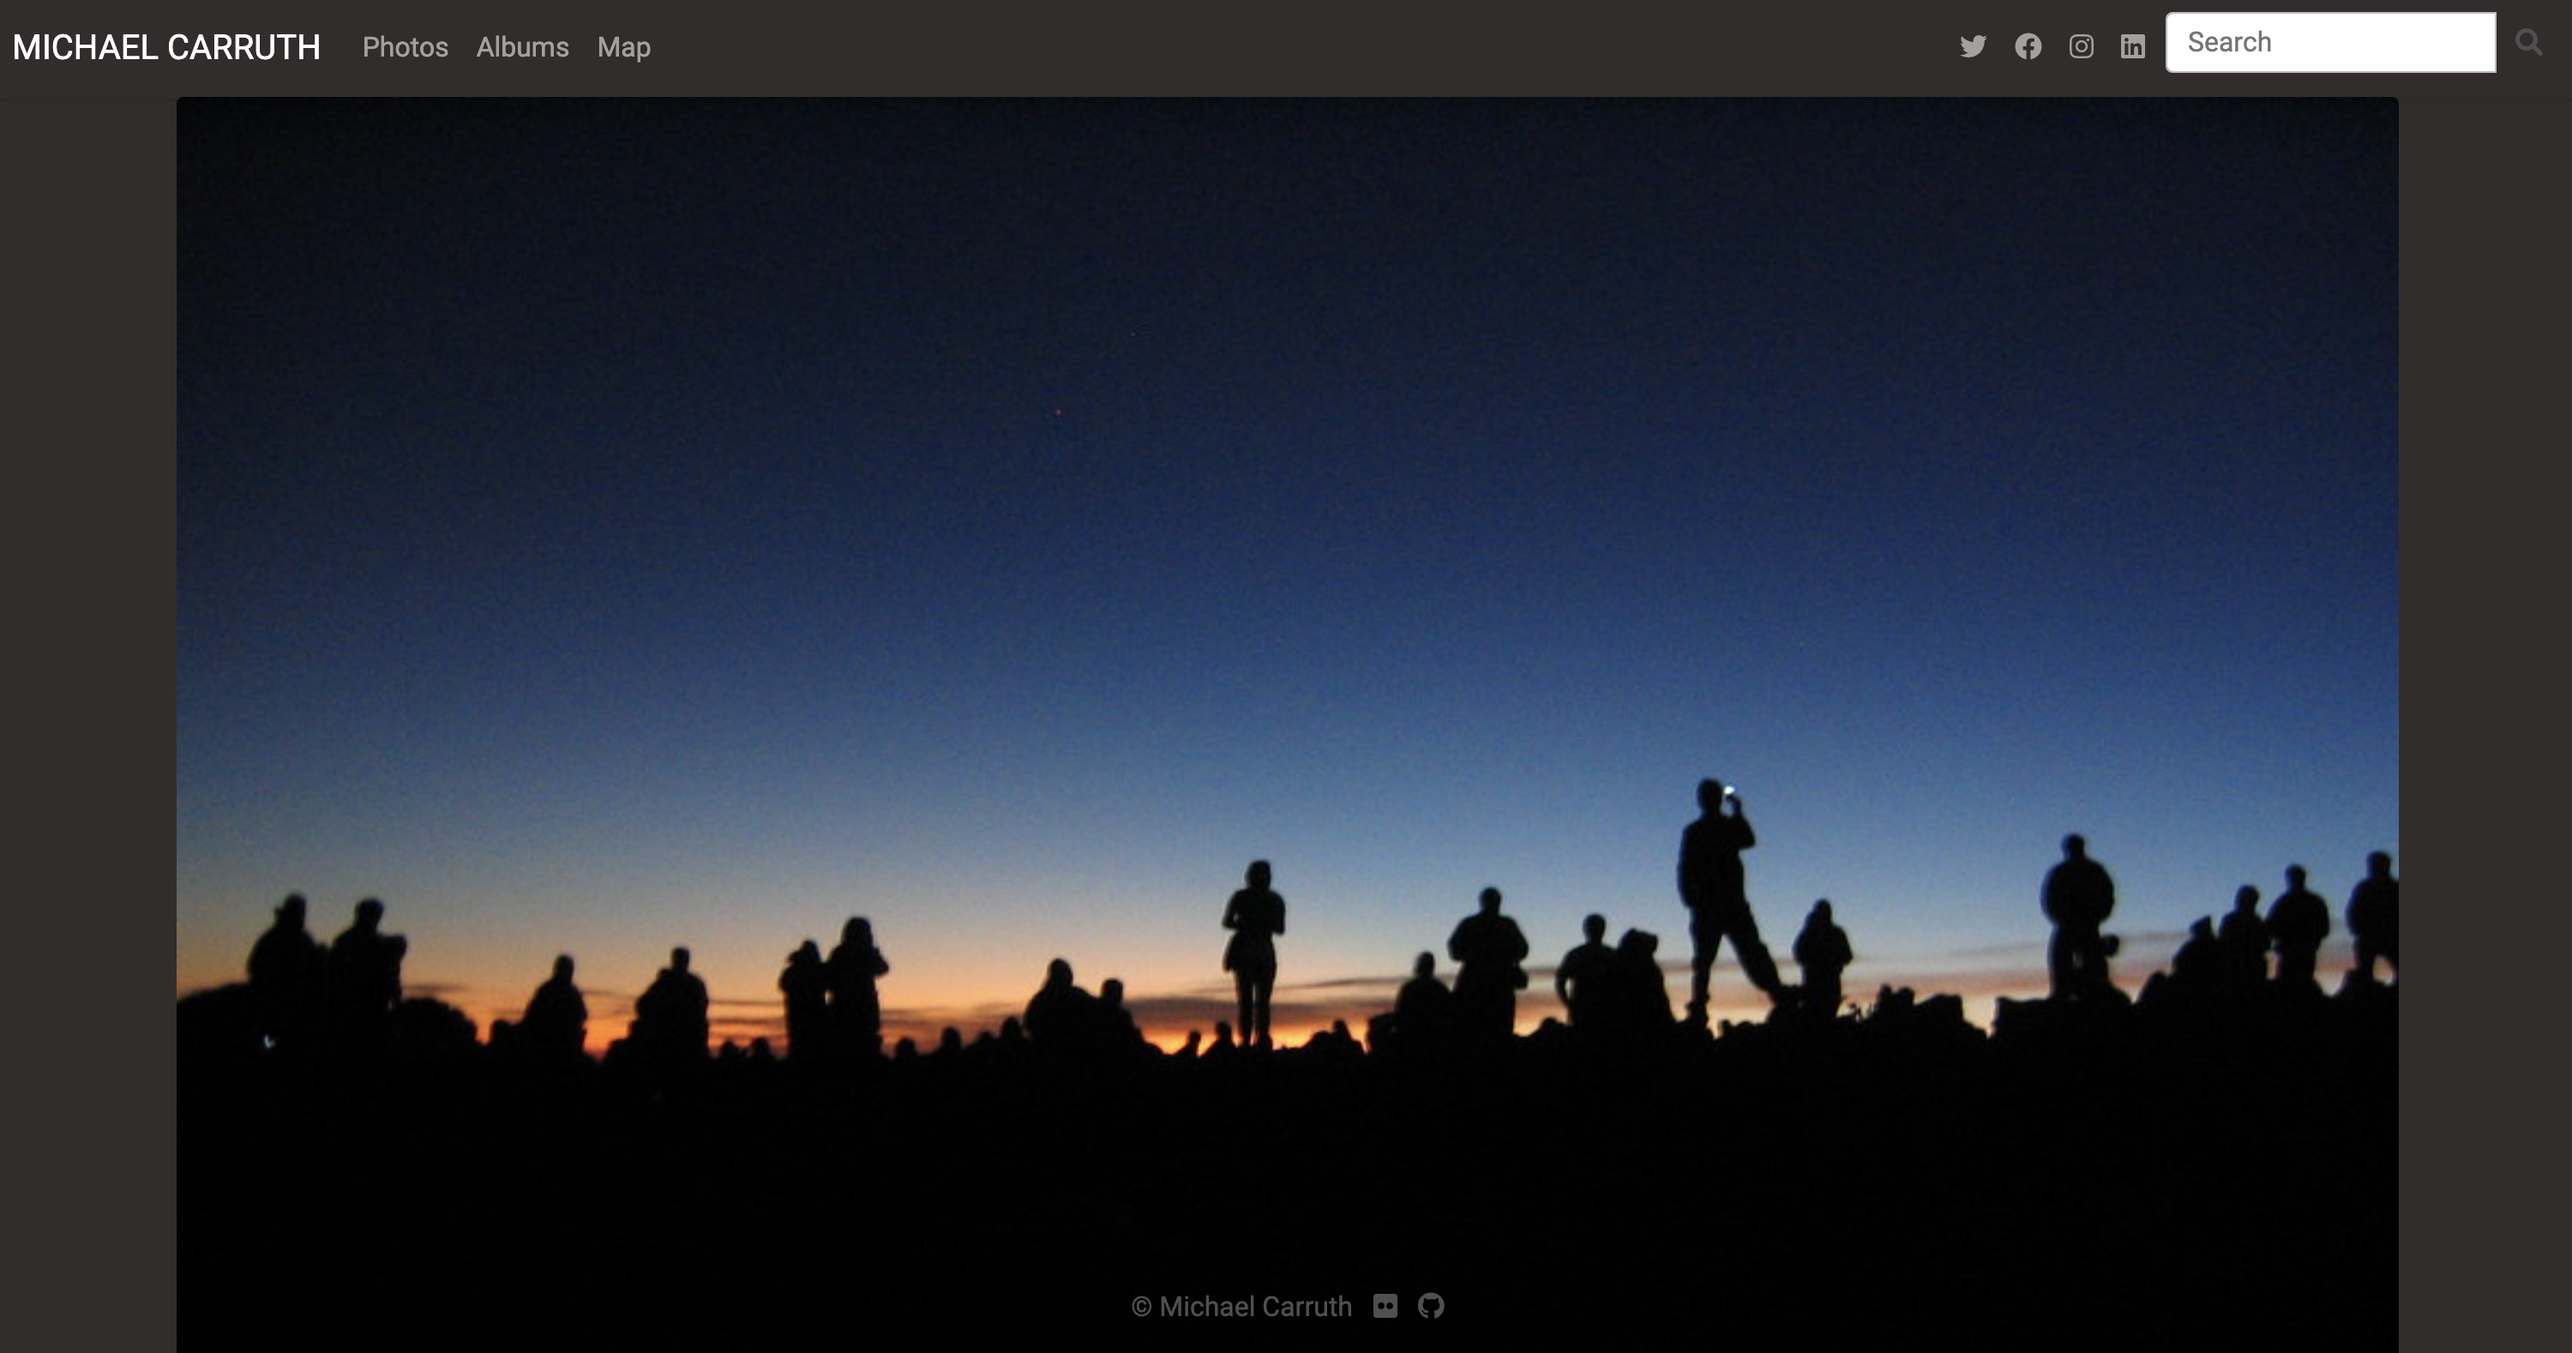
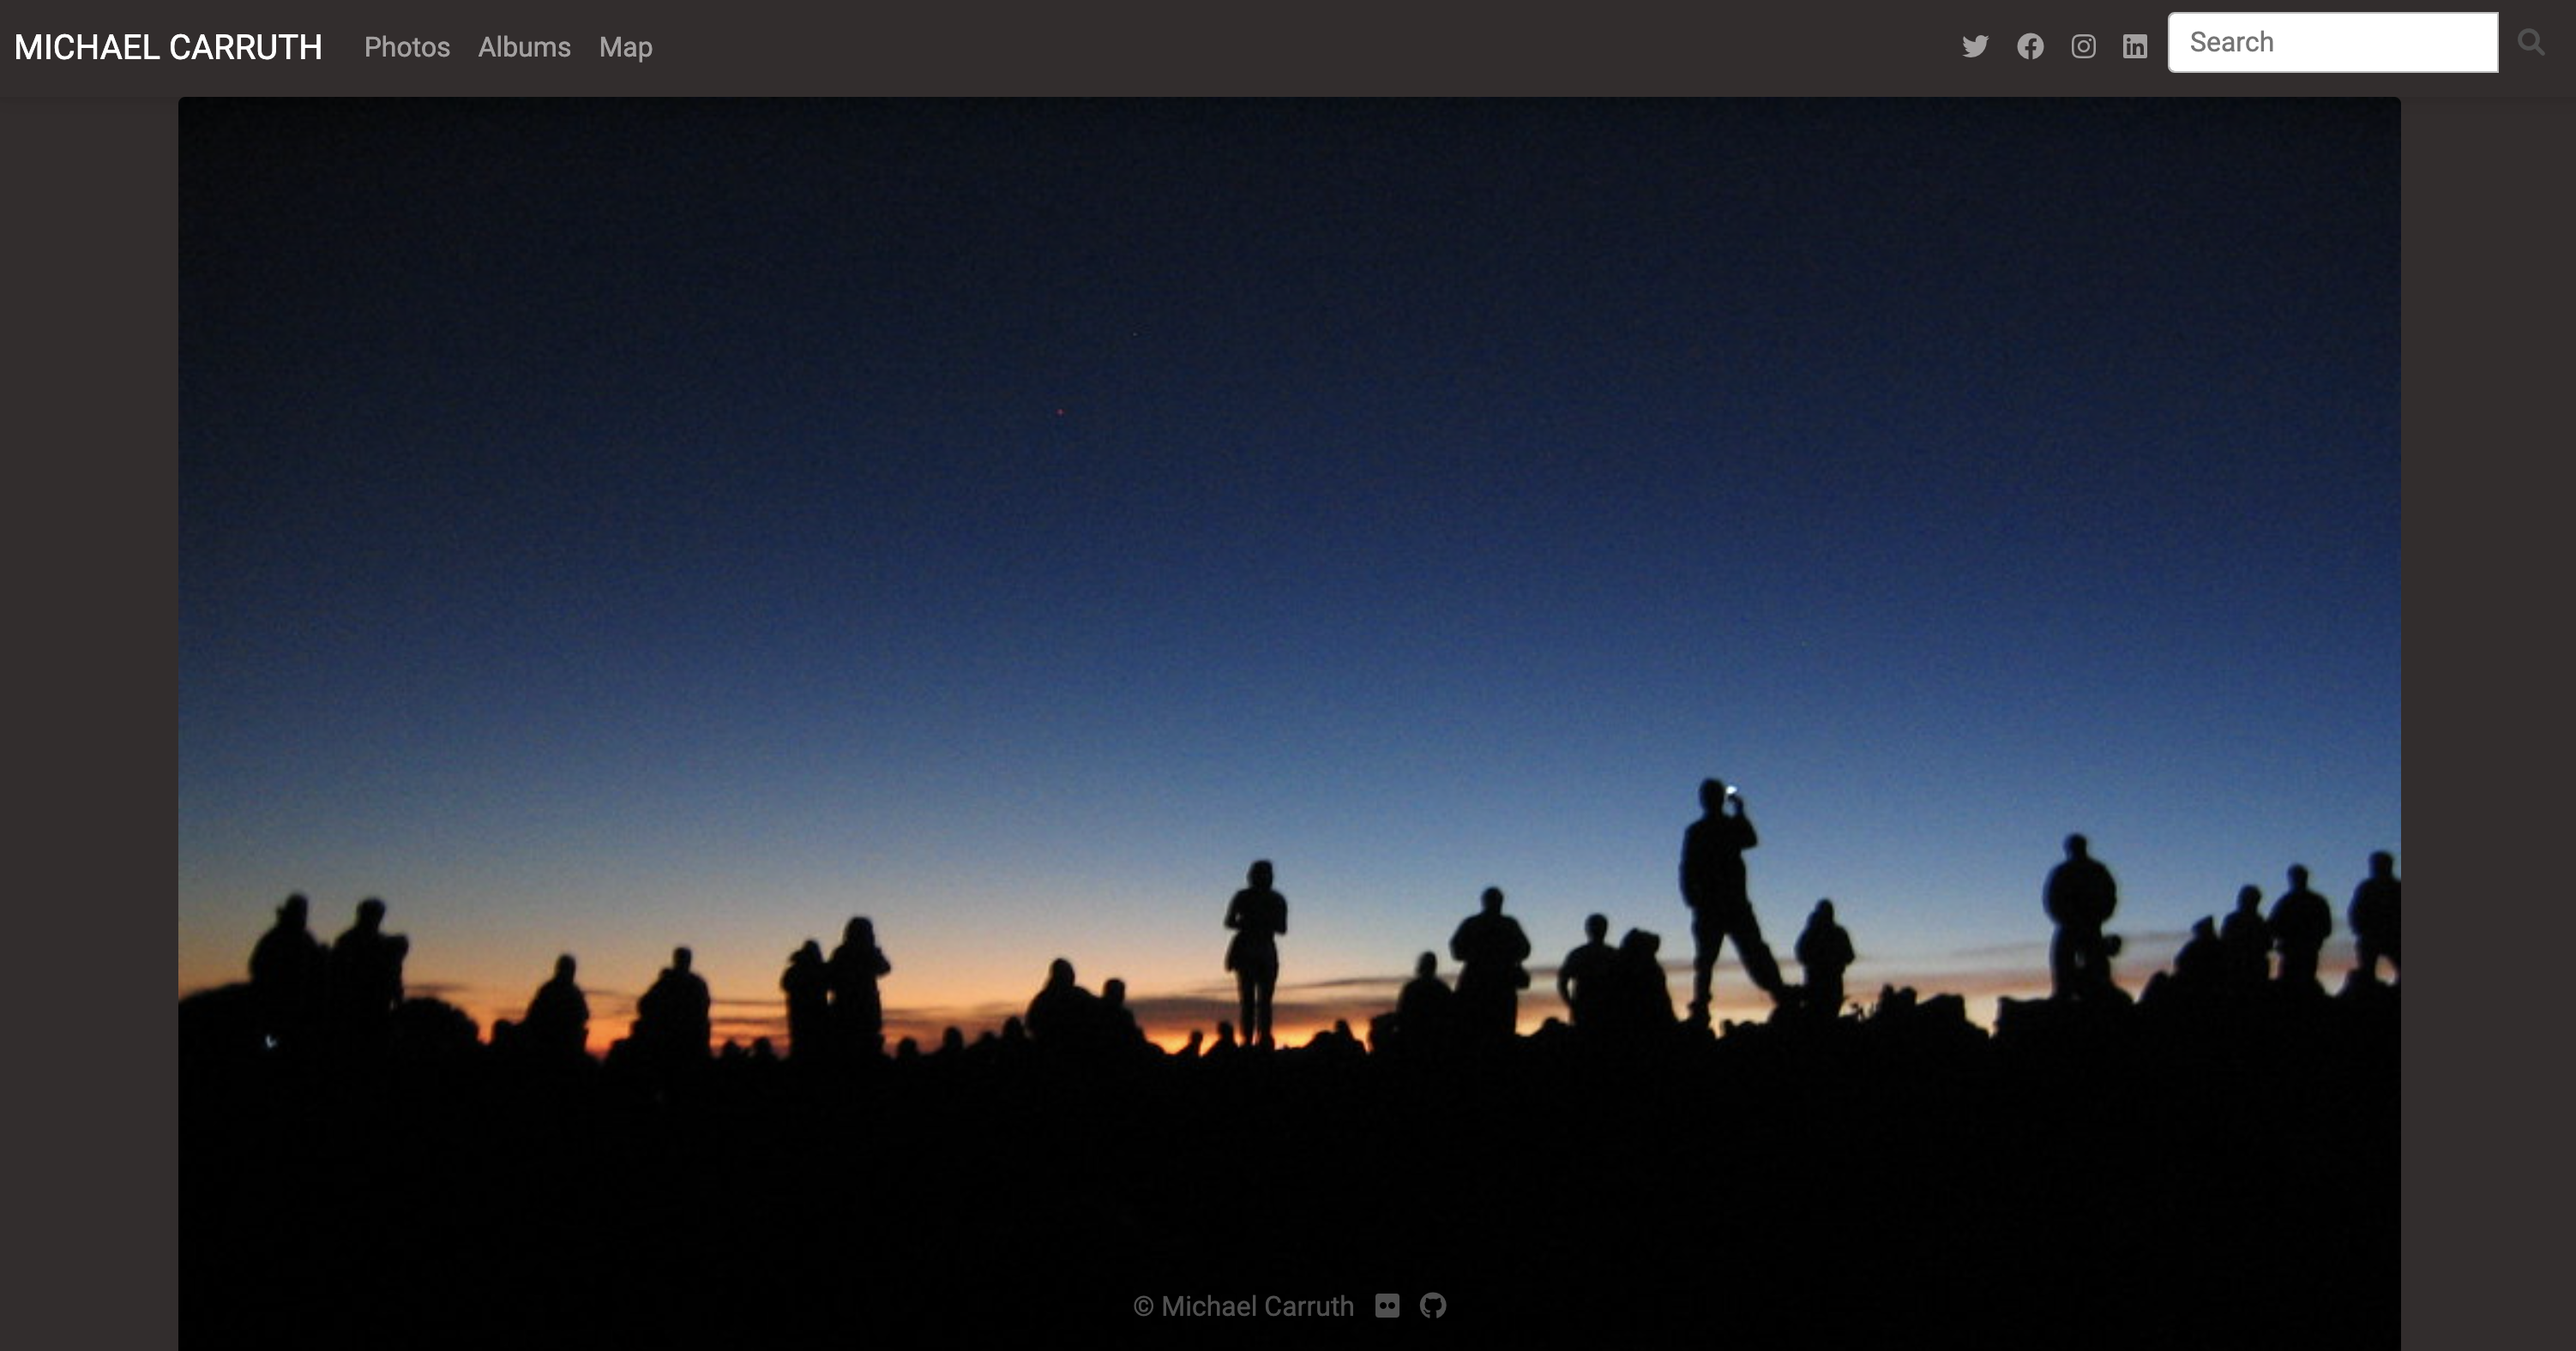
Refactor HTML structure in album, map, photo, and photos templates for improved responsiveness and styling

diff --git a/templates/albums.html b/templates/albums.html
@@ -5,17 +5,18 @@
 {% block head_scripts %}
 {% endblock %}
 {% block main_content %}
-<div class="row">
+<div class="row g-3">
     {% for photoset in data.photosets.photoset %}
-    <div class="col-lg-6 col-md-6 mb-0">
-        <div class="bg-image hover-overlay rounded" data-mdb-ripple-init data-mdb-ripple-color="light">
-            <img src="{{photoset.primary_photo_extras.url_l or photoset.primary_photo_extras.url_m}}"
-                class="w-100 shadow-1-strong rounded mb-4" />
-            <a href="/photos?album_id={{photoset.id}}" class="mask">
-                <div class="mask" style="background-color: rgba(0, 0, 0, 0.2);">
-                    <div class="d-flex justify-content-center align-items-center h-100">
-                        <p class="text-white mb-0">{{photoset.title._content}}</p>
-                    </div>
+    <div class="col-3">
+        <div class="bg-image hover-overlay rounded position-relative" data-mdb-ripple-init data-mdb-ripple-color="light">
+            <div class="ratio ratio-4x3">
+                <img src="{{ photoset.primary_photo_extras.url_l or photoset.primary_photo_extras.url_m }}" 
+                     class="img-fluid rounded shadow"
+                     alt="{{ photoset.title._content }}" />
+            </div>
+            <a href="/photos?album_id={{ photoset.id }}" class="mask" style="background-color: rgba(0, 0, 0, 0.2);">
+                <div class="d-flex justify-content-center align-items-center h-100">
+                    <p class="text-white text-center fw-bold mb-0">{{ photoset.title._content }}</p>
                 </div>
             </a>
         </div>

diff --git a/templates/photos.html b/templates/photos.html
@@ -7,11 +7,11 @@
 {% block main_content %}
 <div class="row">
     {% for photo in photos %}
-    <div class="col-lg-12 col-md-12 mb-4">
+    <div class="col-12 mb-4">
         <div class="bg-image hover-overlay rounded" data-mdb-ripple-init data-mdb-ripple-color="light">
             <img src="{{photo.url_l or photo.url_m}}" class="w-100" />
             <a href="/photos/{{photo.id}}">
-                <div class="mask" style="background-color: hsla(0, 0%, 98%, 0.2)">
+                <div class="mask" style="background-color: rgba(0, 0, 0, 0.2);">
                     <div class="d-flex justify-content-center align-items-center h-100">
                         <p class="text-white mb-0">{{photo.title}}</p>
                     </div>

diff --git a/templates/photo.html b/templates/photo.html
@@ -4,7 +4,7 @@
 
 {% block main_content %}
 <div class="row">
-    <div class="col-lg-12 col-md-12 mb-4 mb-lg-0">
+    <div class="col-12">
         <div class="card">
             <img src="{{data.photo.urls.img_url}}" class="card-img-top" alt="{{data.photo.title._content}}" />
             <div class="card-body">

diff --git a/templates/map.html b/templates/map.html
@@ -7,7 +7,7 @@
 {% block header_content %}{% endblock %}
 {% block main_content %}
 <div class="row">
-    <div class="col-lg-12 col-md-12 mb-4 mb-lg-0"></div>
+    <div class="col-12"></div>
 
     <!-- Map container -->
     <div id="map" style="height: 900px;"></div>
